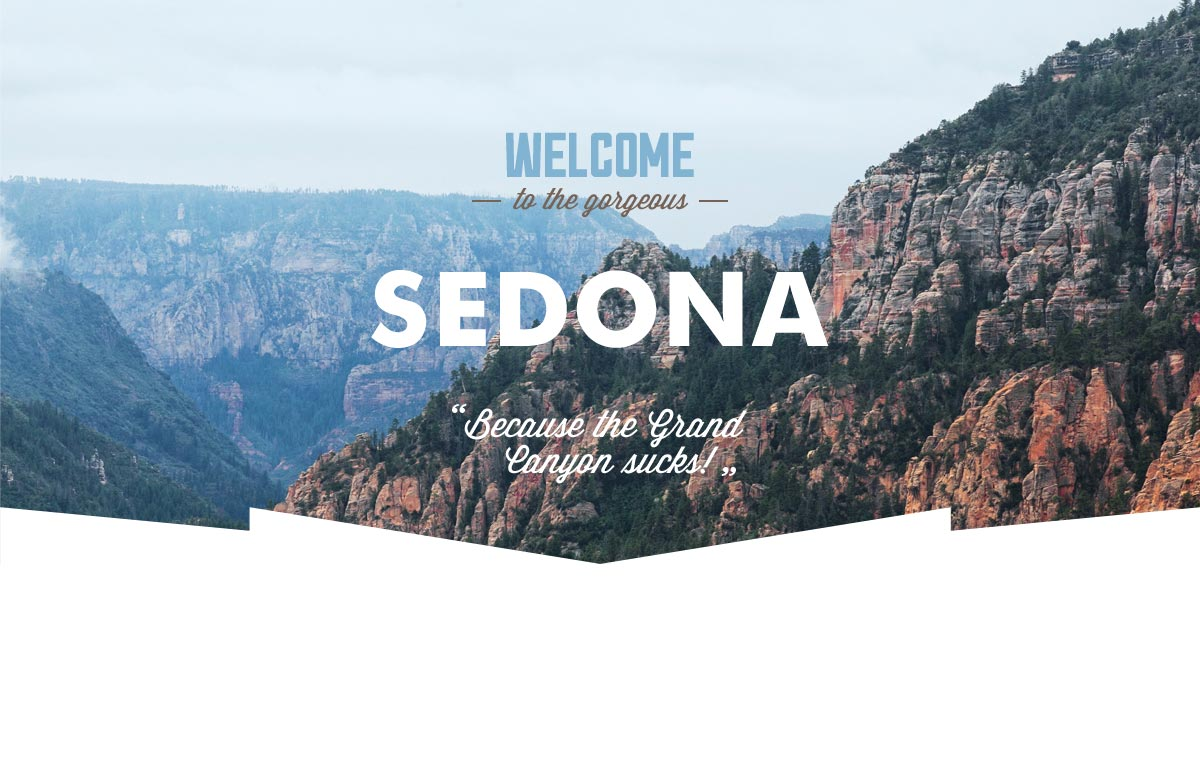
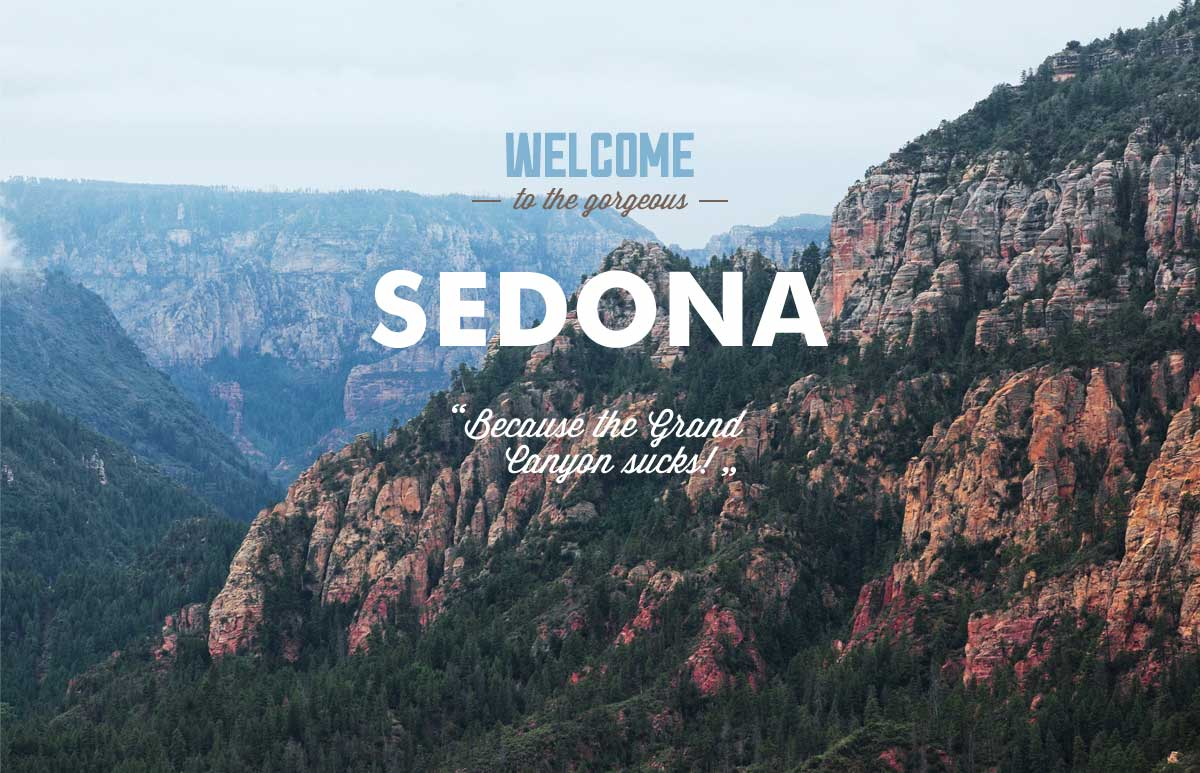
фоновые картинки

diff --git a/css/style.css b/css/style.css
@@ -1,3 +1,9 @@
 body {
   max-width: 1200px;
+
+  font-size: 14px;
+  line-height: 24px;
   font-family: PTsans;
+  text-transform: uppercase;
+  background: #cccccc url("img/background.jpg") no-repeat;
+}
